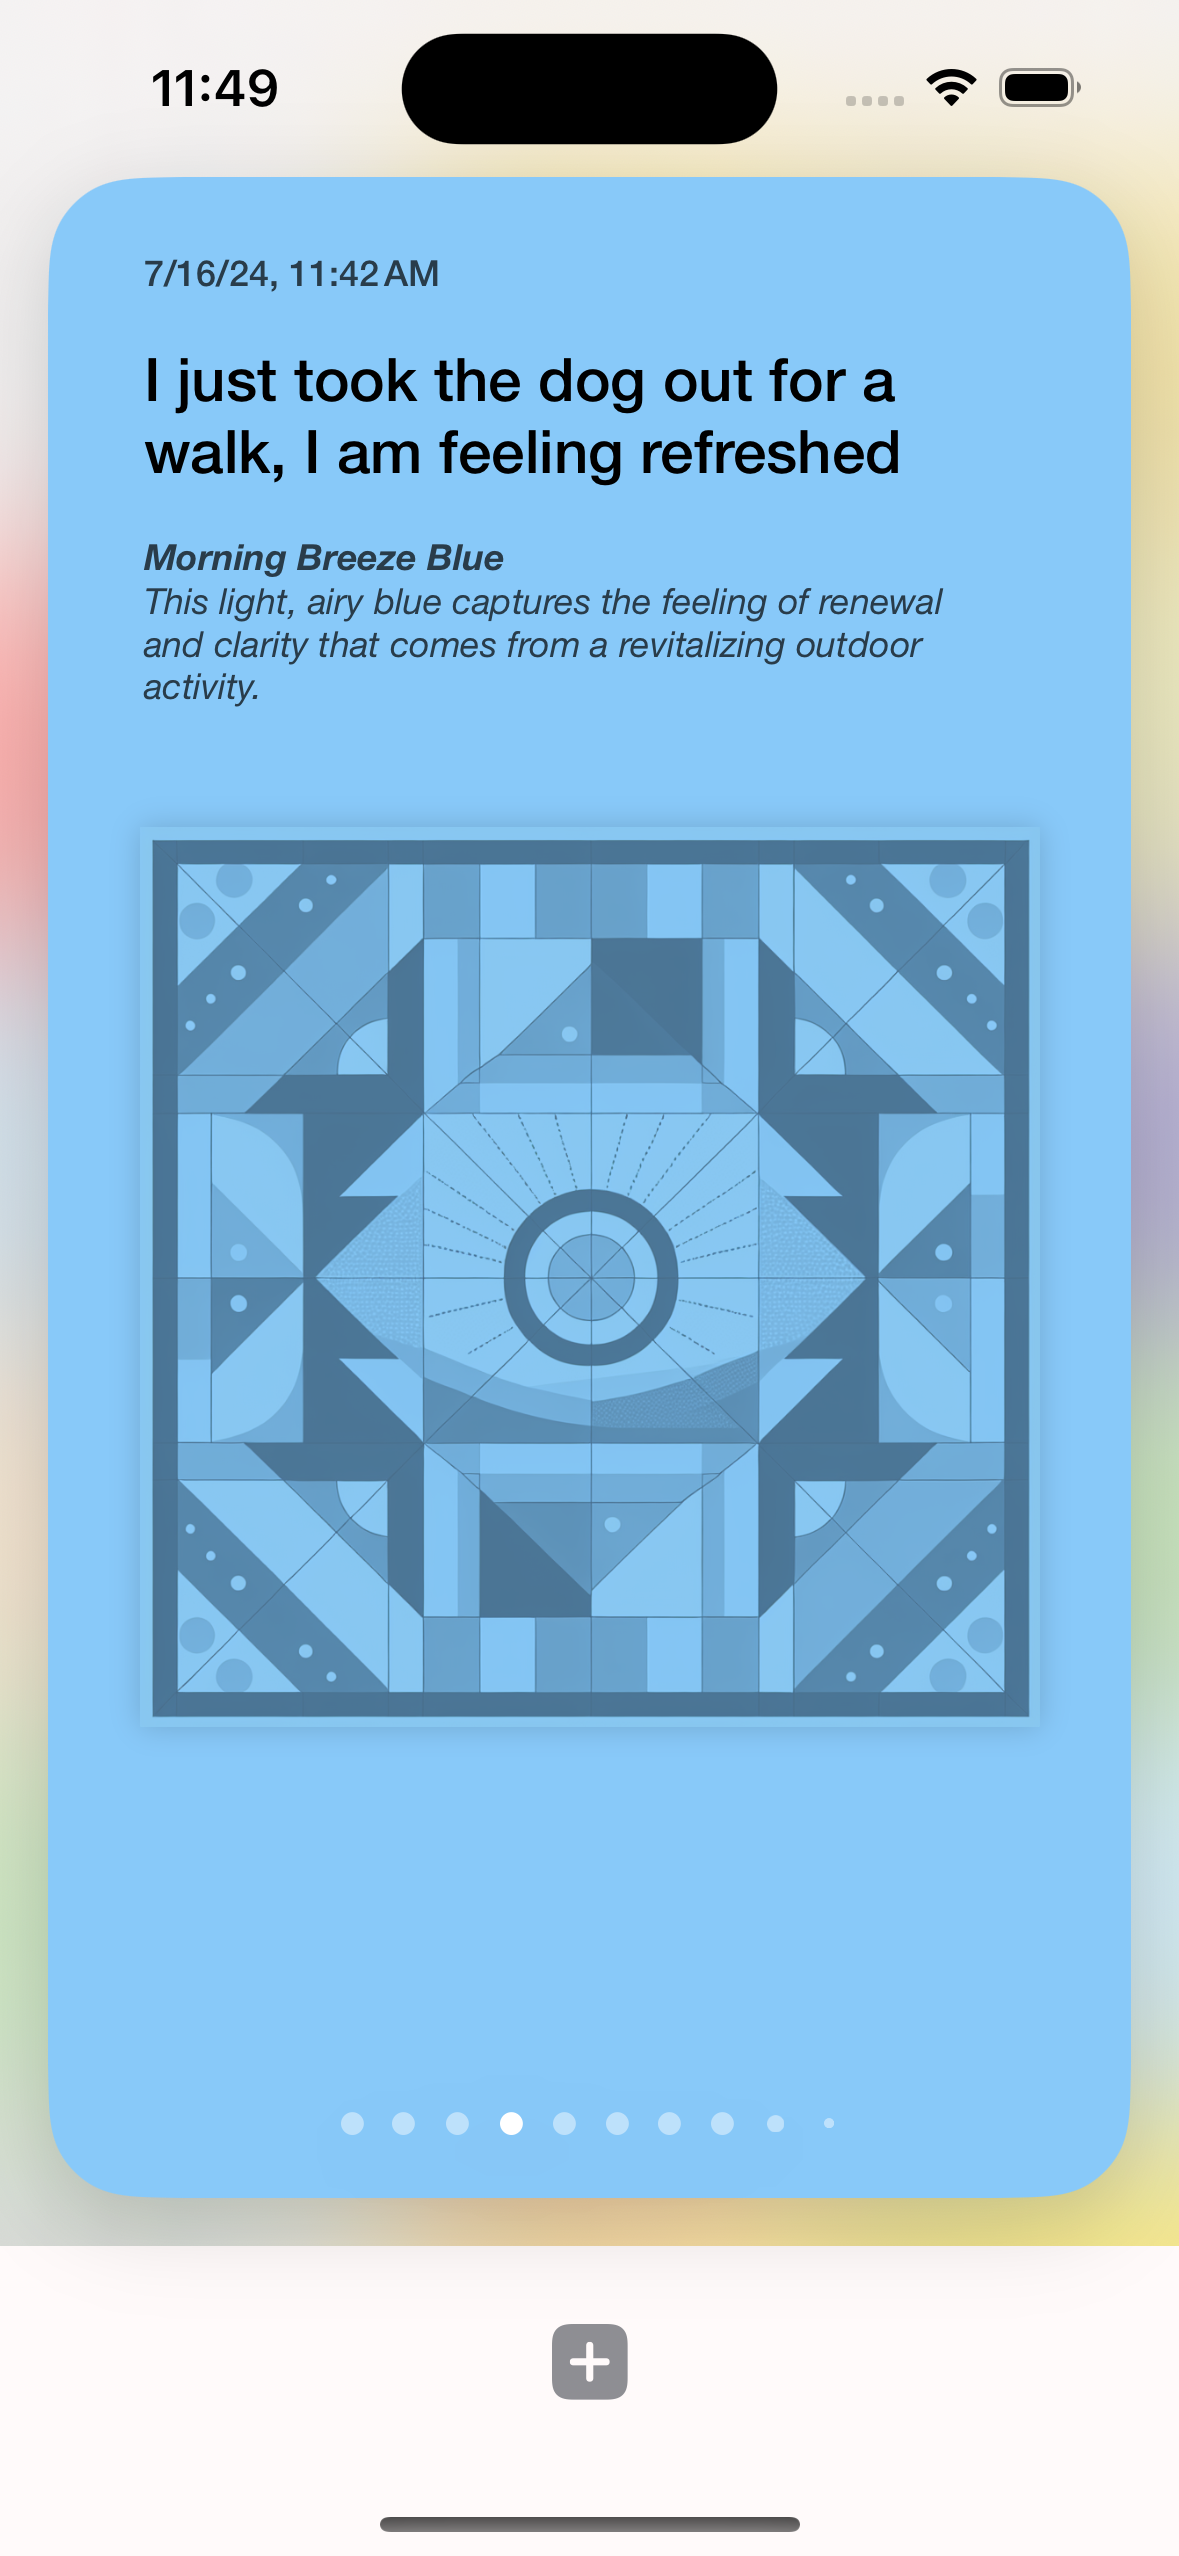
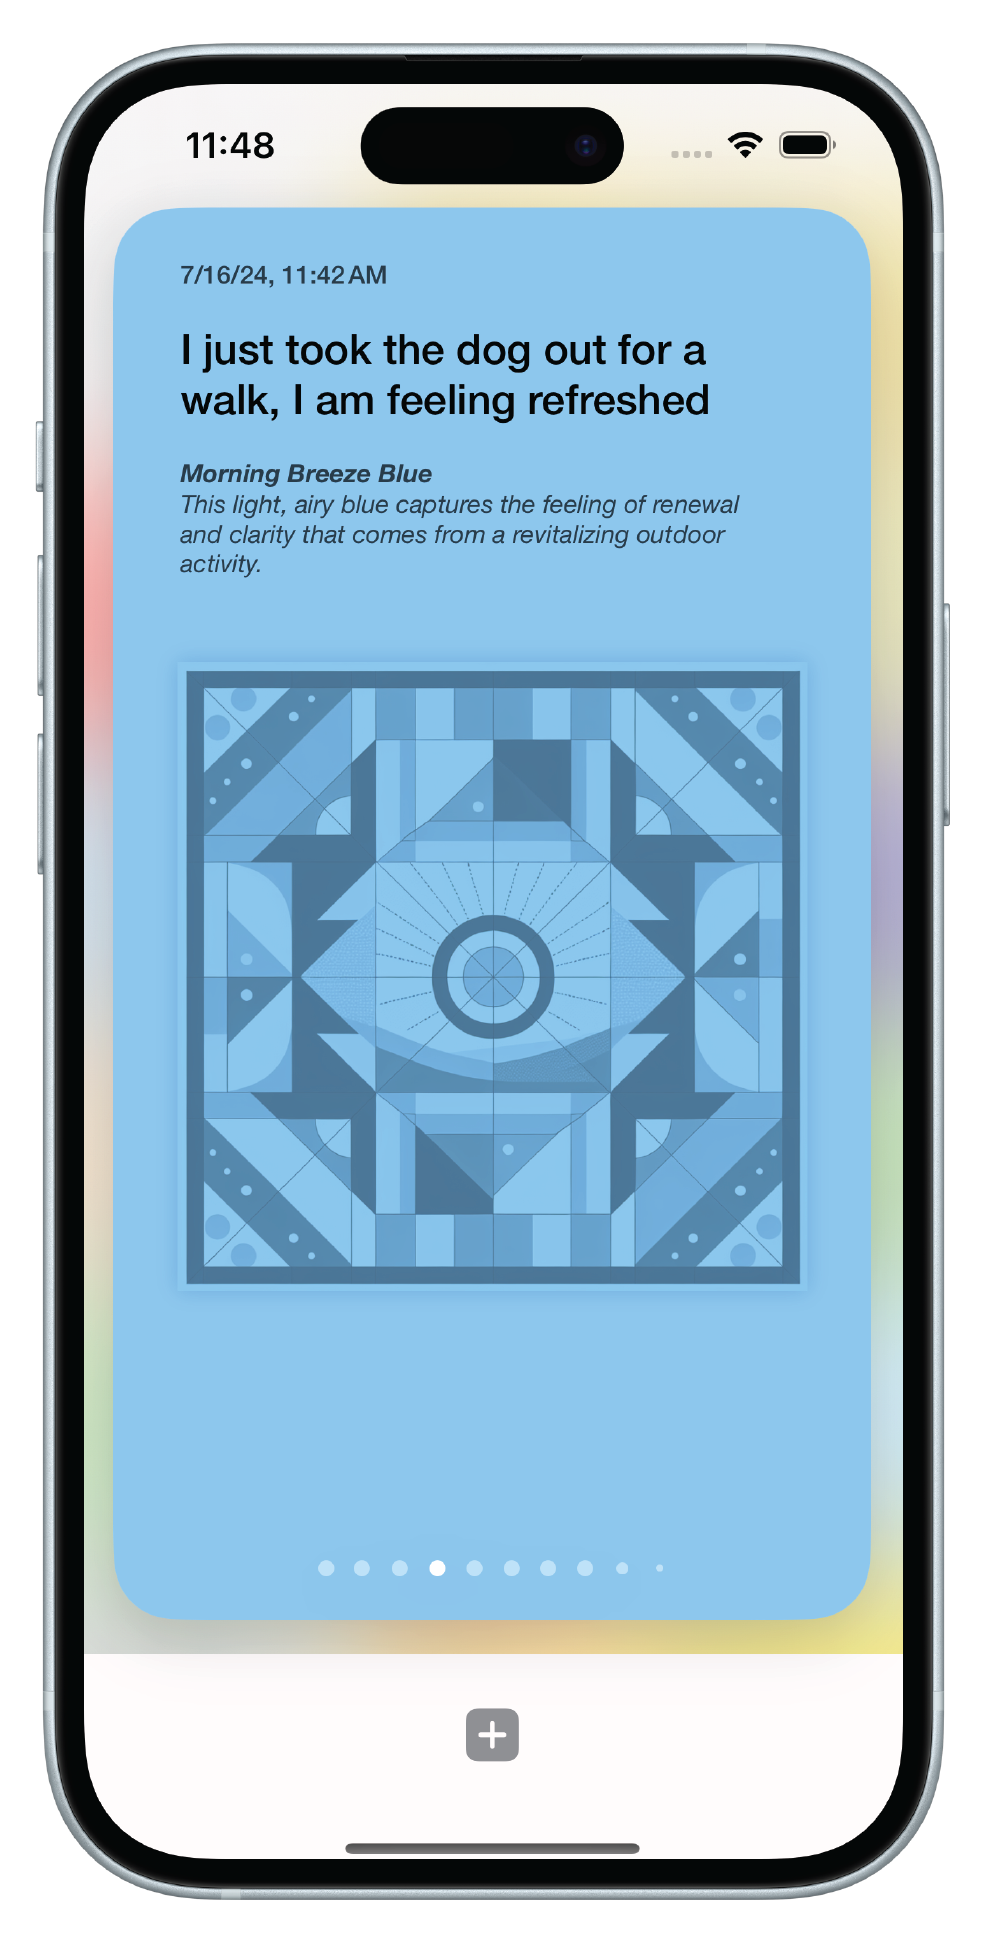
added images

diff --git a/index.html b/index.html
@@ -40,8 +40,8 @@
             <p>I designed and implemented a journaling app, which leverages the OpenAI API for text and image generation. The app uses the power of AI to create a visual record of the user's mood by crating a color and pattern representation of the users' input. The result is a quilt: a grid of blocks, each with a pattern and color based off of the journal entries of the user. At a glance the user is provided with a visual memory of their emotions, and has the option to select any square to reread their own entry.</p>
             <div class="ui-pictures">
                 <img src="images/quilt_view.png" alt="the quilt view">
-                <img src="images/quilt_view.png" alt="the quilt view">
-                <img src="images/quilt_view.png" alt="the quilt view">
+                <img src="images/journal_view.png" alt="the quilt view">
+                <img src="images/text_entry.png" alt="the quilt view">
                 
             </div>
         </section>
